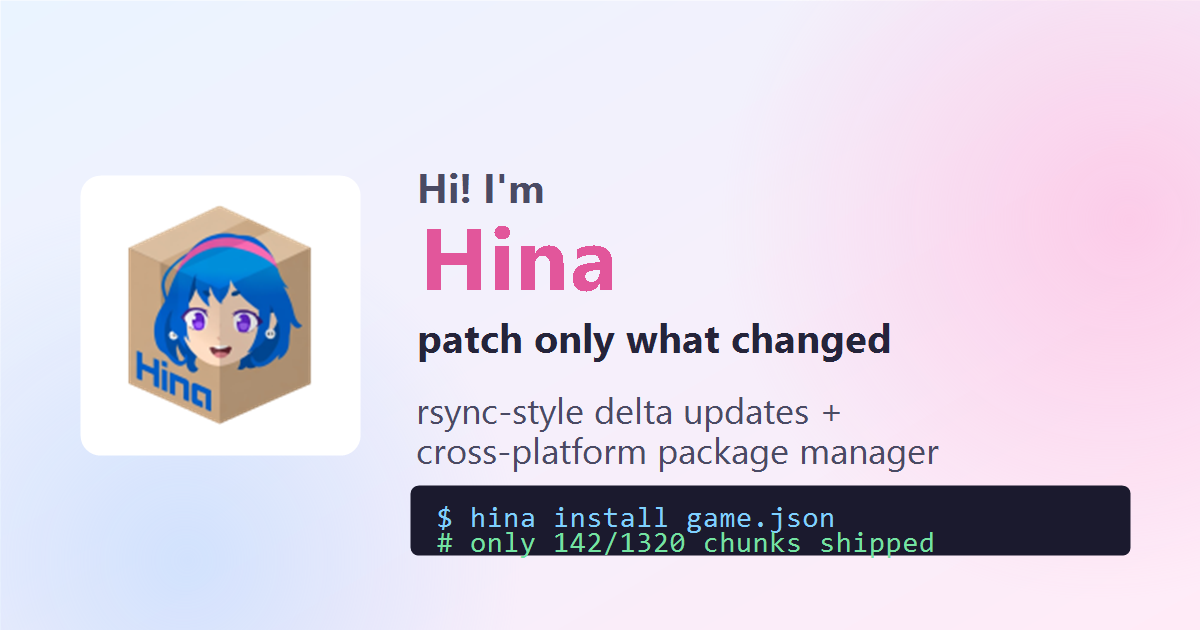
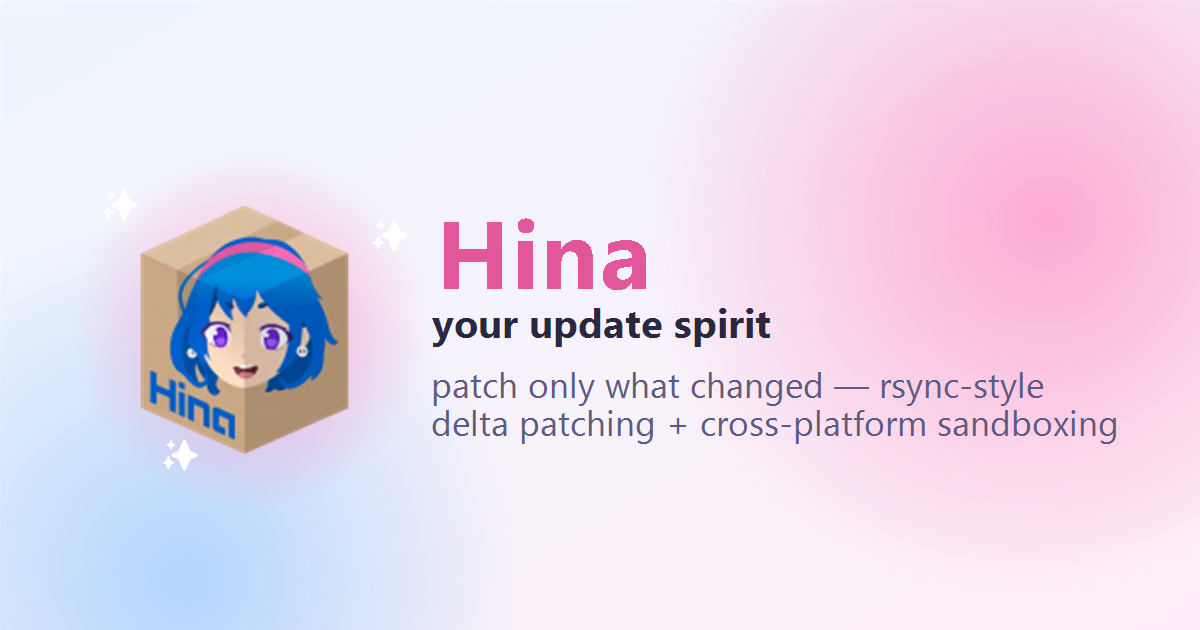
feat(site): side dot-nav + spirit-style OG image
Add a fixed left-edge dot navigation (one labelled dot per section,
active-synced to the companion's IntersectionObserver, click-to-scroll,
hidden under 900px). Regenerate the Open Graph image to match the spirit
theme (pastel aura + sparkles + "your update spirit").

diff --git a/website/JavaScript/main.js b/website/JavaScript/main.js
@@ -104,17 +104,37 @@
   // ---------- scroll → active section ----------
   var sections = Array.prototype.slice.call(document.querySelectorAll(".sec"));
   var active = null;
+
+  // ---------- dot nav ----------
+  var NAV = { hero: "Home", update: "Updates", features: "Features", how: "How", sandbox: "Sandbox", install: "Install", components: "Parts", docs: "Docs", end: "Hi 👋" };
+  var dotnav = document.getElementById("dotnav");
+  var dotFor = {};
+  if (dotnav) {
+    sections.forEach(function (s) {
+      if (!s.id || !NAV[s.id]) return;
+      var b = document.createElement("button");
+      b.type = "button"; b.setAttribute("aria-label", NAV[s.id]);
+      b.innerHTML = '<span class="dot-i"></span><span class="dot-label">' + NAV[s.id] + "</span>";
+      b.addEventListener("click", function () { s.scrollIntoView({ behavior: reduce ? "auto" : "smooth" }); });
+      dotnav.appendChild(b);
+      dotFor[s.id] = b;
+    });
+  }
+  function setActiveDot(s) {
+    if (!s) return;
+    Object.keys(dotFor).forEach(function (id) { dotFor[id].classList.toggle("active", id === s.id); });
+  }
   if ("IntersectionObserver" in window && sections.length) {
     var io = new IntersectionObserver(function (entries) {
       // pick the most-visible intersecting section
       var best = null, bestRatio = 0;
       entries.forEach(function (e) { if (e.isIntersecting && e.intersectionRatio > bestRatio) { best = e.target; bestRatio = e.intersectionRatio; } });
-      if (best && best !== active) { active = best; narrate(best); }
+      if (best && best !== active) { active = best; narrate(best); setActiveDot(best); }
     }, { threshold: [0.35, 0.6] });
     sections.forEach(function (s) { io.observe(s); });
   }
 
   // first line (greet) once the sprite/image is ready-ish
   var first = document.getElementById("hero") || sections[0];
-  if (first) { active = first; narrate(first); }
+  if (first) { active = first; narrate(first); setActiveDot(first); }
 })();

diff --git a/website/Styles/hina.css b/website/Styles/hina.css
@@ -143,6 +143,24 @@ main { position: relative; z-index: 1; }
 .footer .foot-logo { border-radius: 18px; margin-bottom: 0.8rem; box-shadow: var(--shadow-sm); }
 .foot-meta { color: var(--muted); font-size: 0.88rem; margin-top: 1.2rem; }
 
+/* ============ DOT NAV ============ */
+.dotnav {
+  position: fixed; left: 16px; top: 50%; transform: translateY(-50%); z-index: 35;
+  display: flex; flex-direction: column; gap: 0.7rem; align-items: flex-start;
+}
+.dotnav button {
+  display: flex; align-items: center; gap: 0.55rem; background: none; border: none; cursor: pointer; padding: 0;
+  color: var(--muted); font: 600 0.78rem "Inter"; opacity: 0.65; transition: opacity 0.15s ease, color 0.15s ease;
+}
+.dotnav .dot-i { width: 10px; height: 10px; border-radius: 50%; background: var(--line); border: 2px solid transparent; transition: all 0.2s ease; flex: 0 0 auto; }
+.dotnav .dot-label { opacity: 0; transform: translateX(-4px); transition: opacity 0.15s ease, transform 0.15s ease; white-space: nowrap; }
+.dotnav button:hover { opacity: 1; color: var(--ink); }
+.dotnav button:hover .dot-label { opacity: 1; transform: none; }
+.dotnav button.active { opacity: 1; color: var(--pink-deep); }
+.dotnav button.active .dot-i { background: linear-gradient(120deg, var(--pink), var(--blue)); border-color: rgba(var(--glow), 0.5); transform: scale(1.35); box-shadow: 0 0 10px rgba(var(--glow), 0.6); }
+.dotnav button.active .dot-label { opacity: 1; transform: none; }
+@media (max-width: 900px) { .dotnav { display: none; } }
+
 /* ============ COMPANION ============ */
 .companion {
   position: fixed; z-index: 40; right: 18px; bottom: 18px;

diff --git a/website/index.html b/website/index.html
@@ -50,6 +50,8 @@
       </div>
     </nav>
 
+    <nav class="dotnav" id="dotnav" aria-label="Page sections"></nav>
+
     <main>
       <!-- HERO -->
       <section id="hero" class="sec hero" data-expr="happy"
